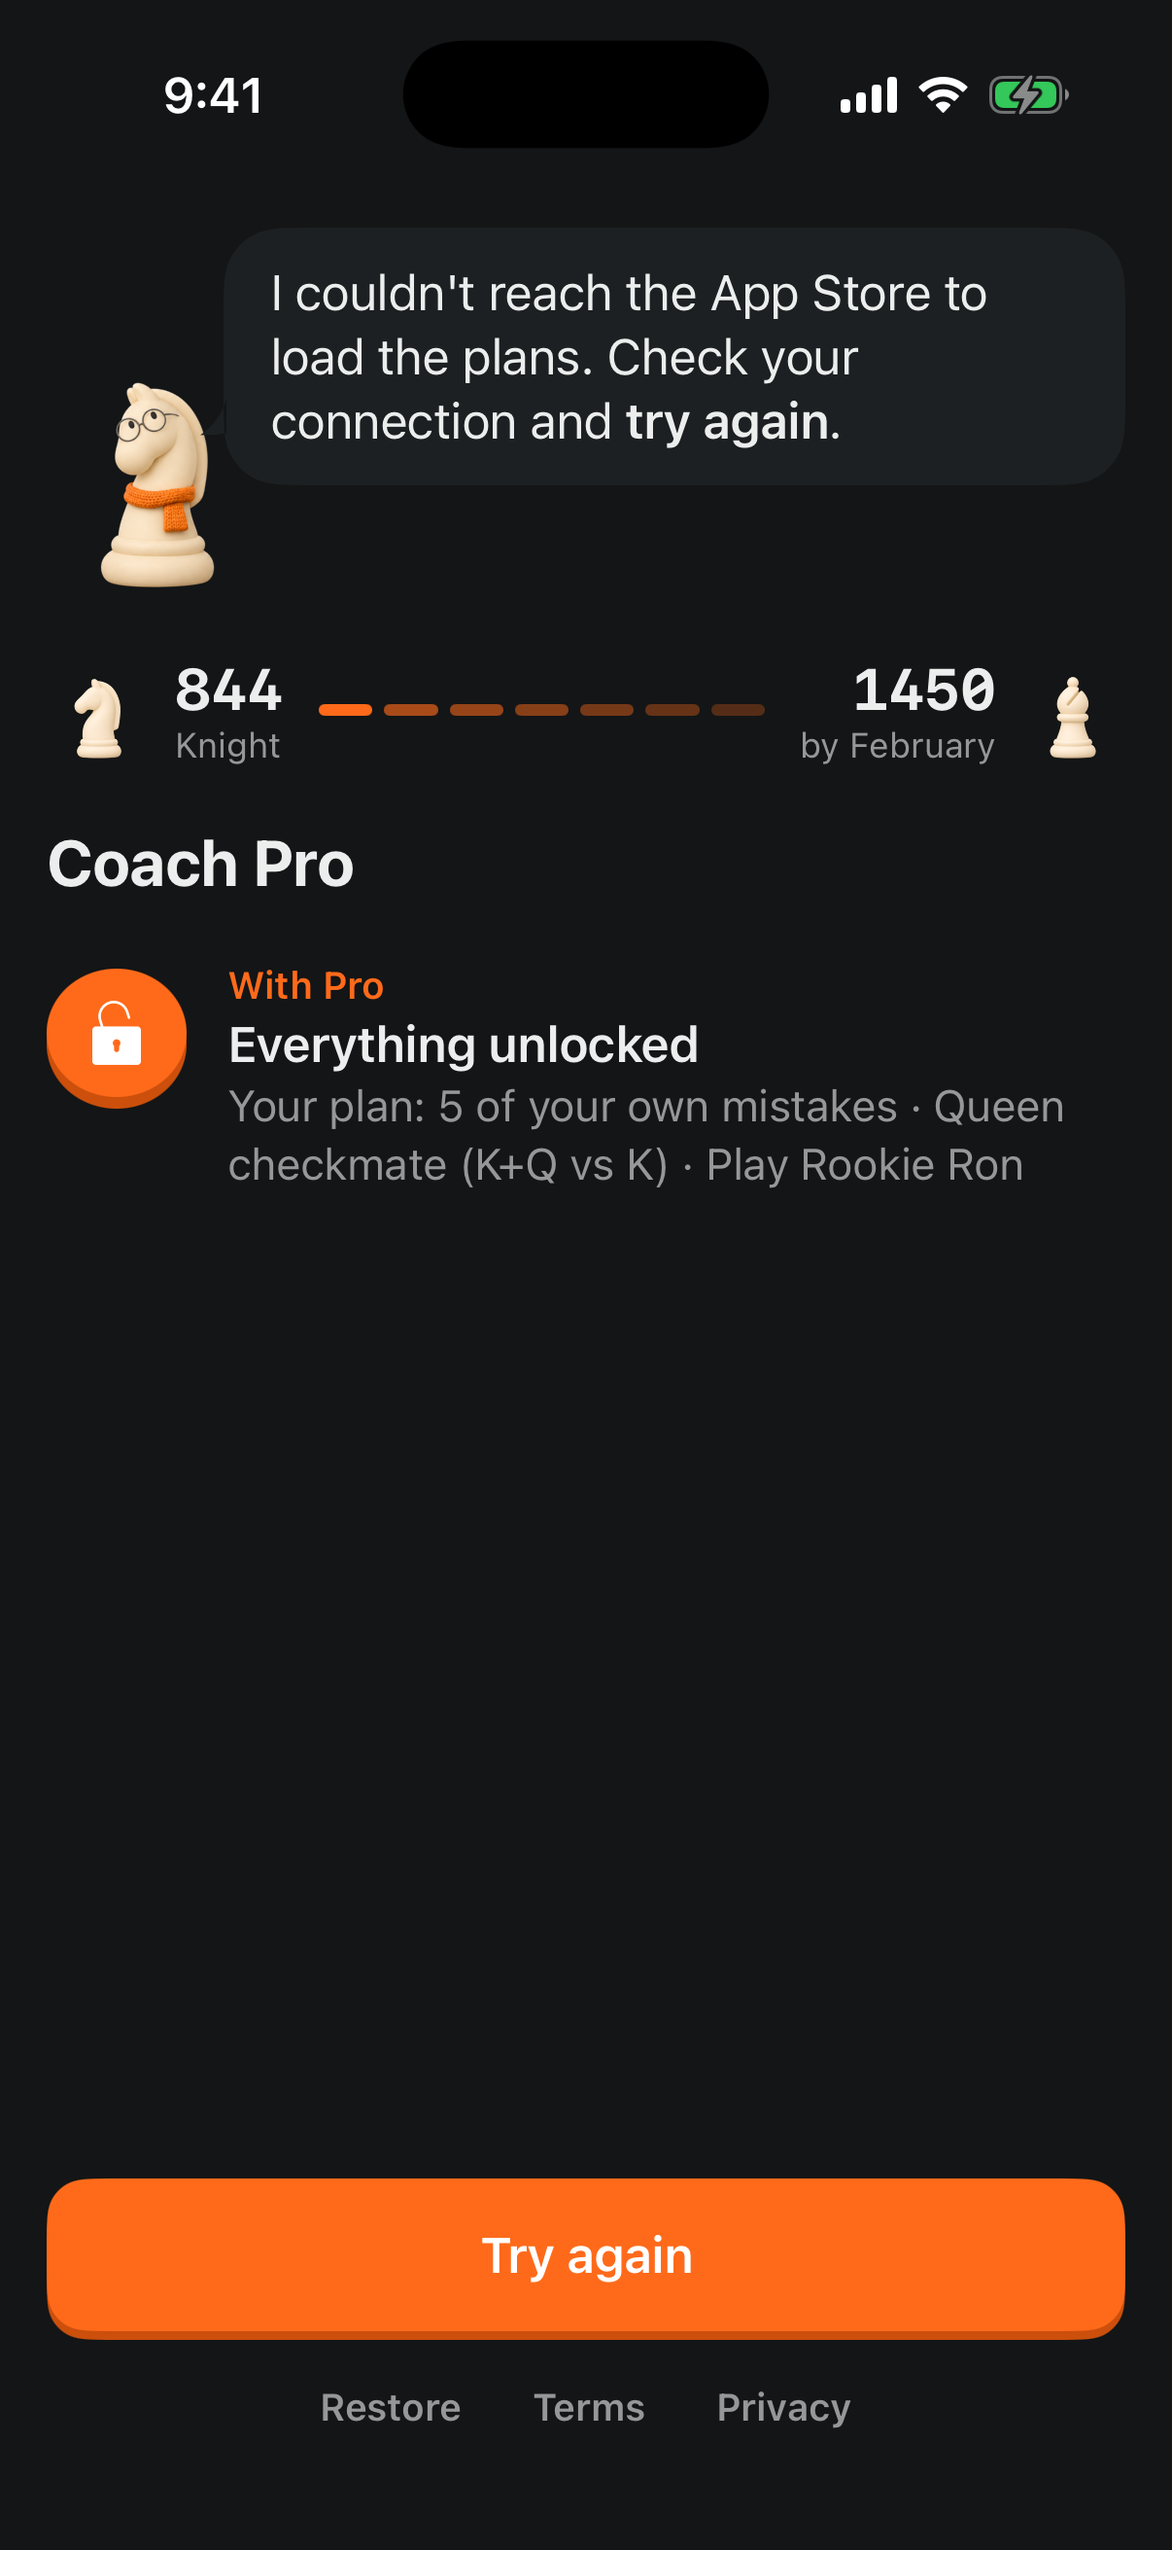
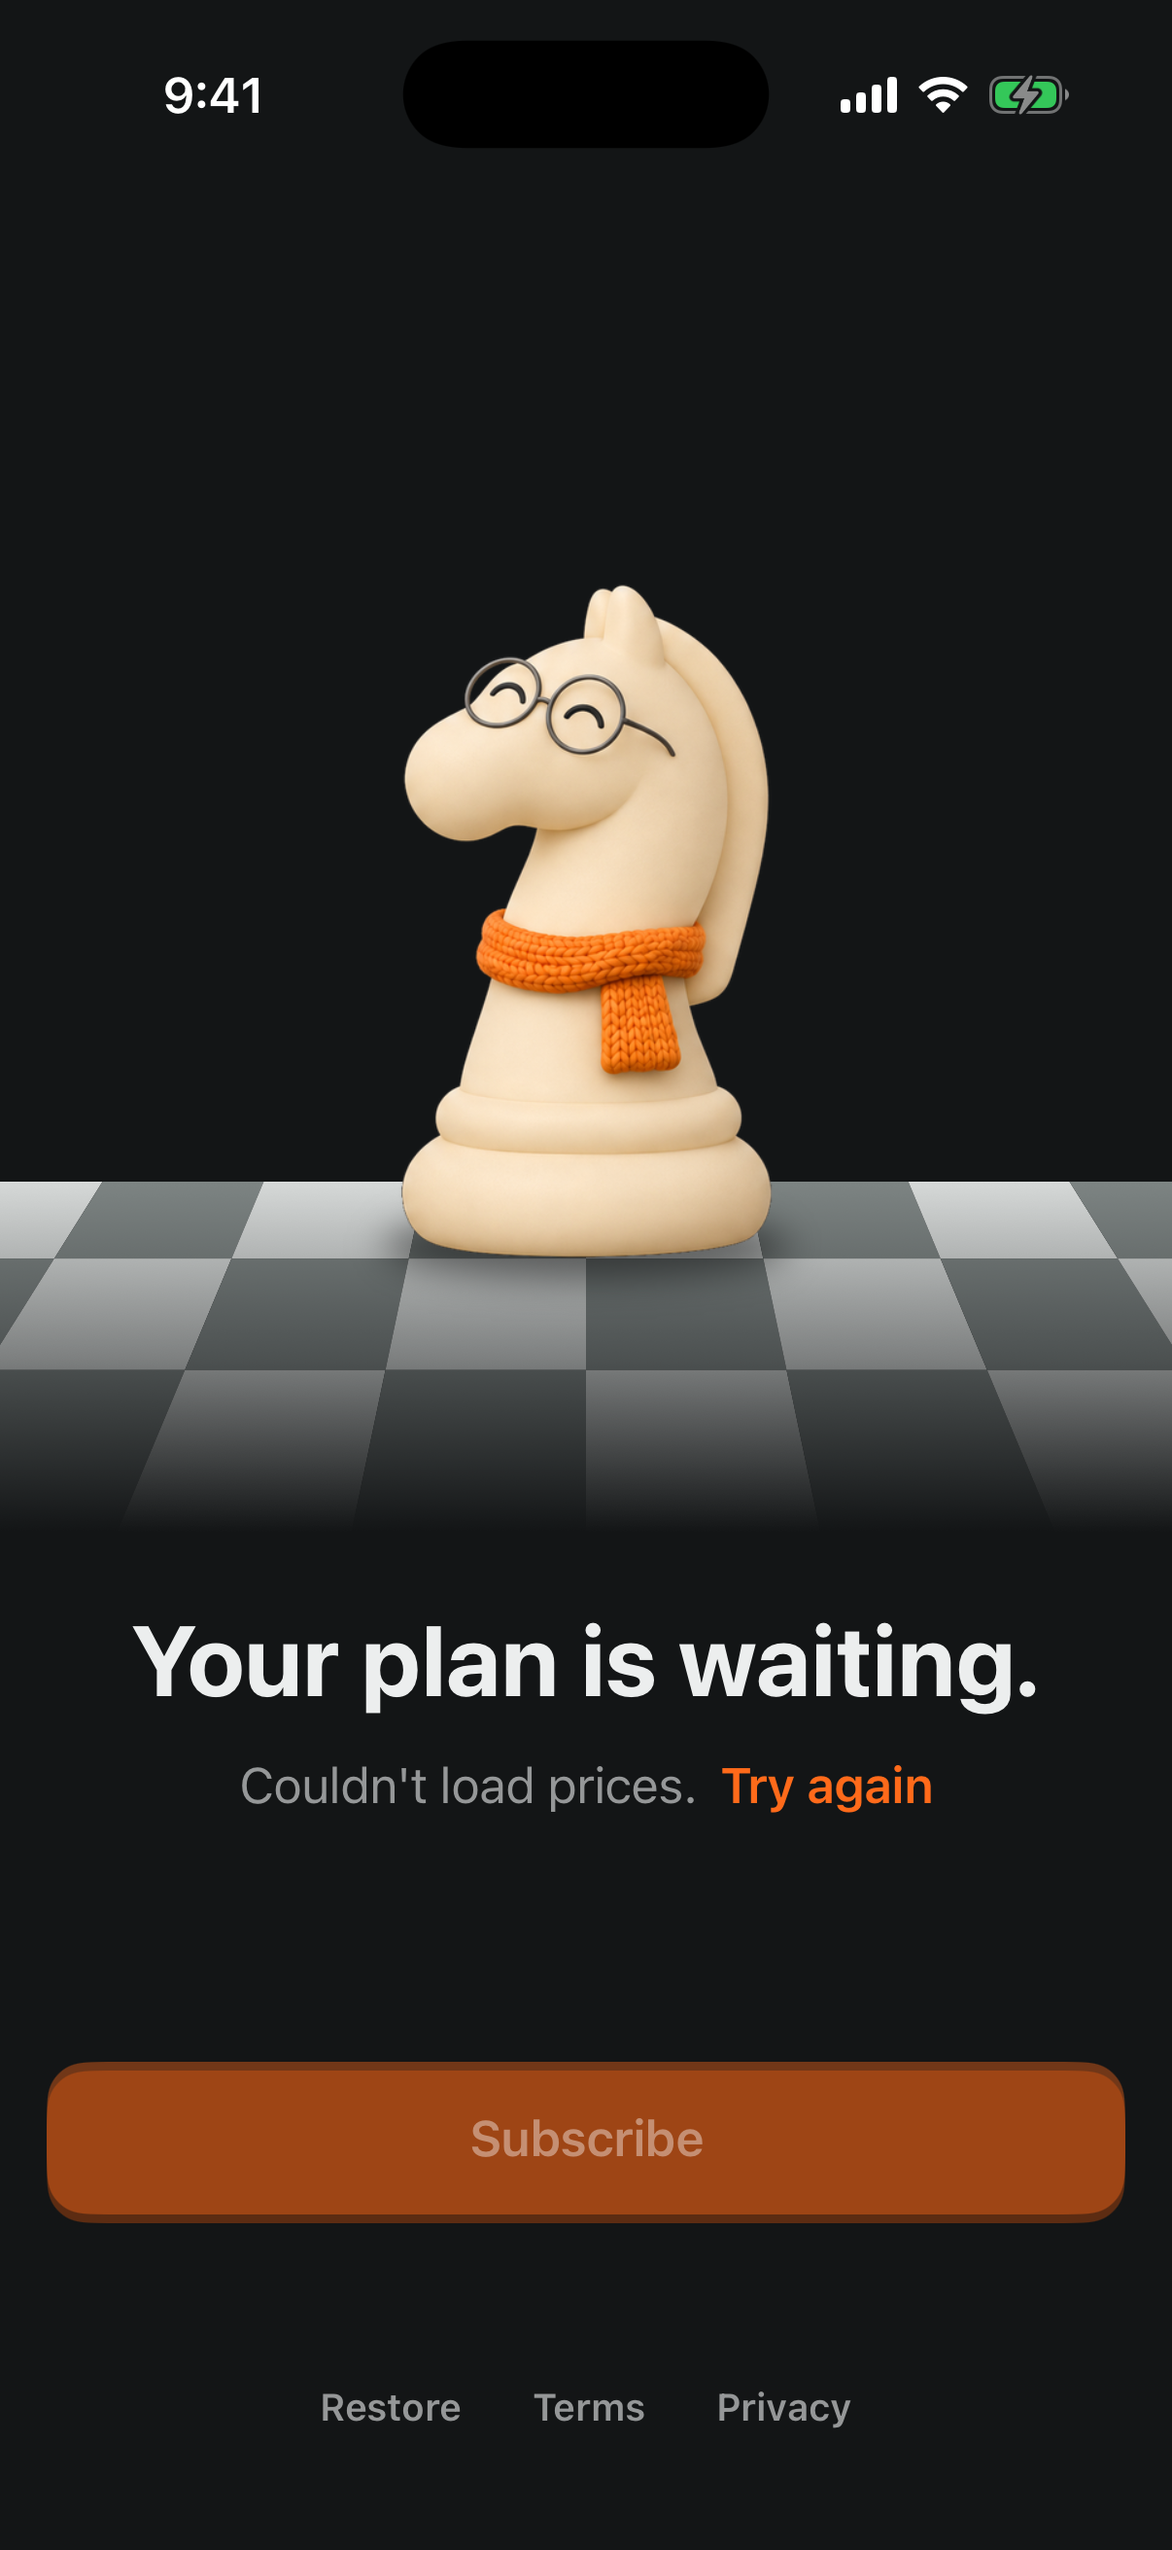
docs(paywall): minimal paywall ruling, trials in App Store Connect, screens

diff --git a/docs/design/decisions.md b/docs/design/decisions.md
@@ -216,15 +216,14 @@ Screens: `screens/merged-settings.png`, `-paywall.png`, `-licenses.png`, `-revie
 
 ## Hard paywall (owner, 2026-11-24: "ask for subscription at the end of onboarding")
 
-Screens: `screens/final-paywall-onboarding.png` (last onboarding step), `final-paywall-gate.png` (launch gate), `final-paywall-gate-monthly.png` (monthly selected: its 3-day trial), `final-paywall-error.png` (store unreachable), `final-paywall-inapp.png` (the in-app sheet, same design). References: Mobbin trial timelines (5 Minute Journal, Deepstash, Ladder, Nibble, Strava), Duolingo Super ("Start my free week"), Chessigma's narrator (`references/chessigma/notes.md`). One direction, owner said one-shot it.
+Screens: `screens/final-paywall-onboarding.png` (last onboarding step), `final-paywall-monthly.png` (the monthly switch), `final-paywall-gate.png` (launch gate), `final-paywall-error.png` (prices didn't load), `final-paywall-inapp.png` (the in-app sheet, same screen with a close button). References (owner-picked, Mobbin): Duolingo Super's trial paywall (https://mobbin.com/screens/97e9b0dc-f653-4422-96e8-53650ff9accd: one headline with the trial words in accent, one big mascot, one reminder line, one CTA "Try for $0.00") and Savee's "Your plan expired" (https://mobbin.com/screens/6ebca455-a73e-4271-8aad-8df17ab7223e: centred, two short lines, one button, one tiny price line).
 
-- **Pro gates: hard paywall ruling.** Build setting `HARD_PAYWALL` (Config/App.xcconfig → Info.plist `HardPaywall`, read once at launch, default 1). On: Coach Pro is required. Onboarding saves the profile, games, goal and plan, then ends on the paywall (no back, no close). A launch without the `pro` entitlement (expired, refunded, a reinstall that quit on the paywall) shows the same paywall before the tabs, never onboarding again; nothing shows until the first status check answers (`EntitlementStatus.unknown` → a blank frame, so a subscriber never sees the gate flash). Pro arriving (purchase, restore, renewal, Ask to Buy approval) swaps it for the tabs. Off (0): the free tier and the rulings above stay exactly as they are. The ProGate code stays in place either way (a lapsed subscriber mid-session, and HARD_PAYWALL=0 builds).
-- **The coach presents it**, as in every onboarding step: knight + bubble with the user's own result ("**1150 by February.** Your games keep giving away **free material**, so that's where day 1 starts."; gate: "Welcome back. Your plan for **1450 by February** is waiting."; in-app: the feature's pitch). Under it the user's road: tier piece and rating, a dashed accent road, goal rating and month, goal tier piece (onboarding and gate only; the sheet is shorter).
-- **Honest trial timeline in the week's track language**: chunky round tokens (accent = today) joined by a track, Icons8 iOS Filled unlock / reminder / calendar. Today "Everything unlocked" + day 1 of their plan; Day 5 "We remind you" (a local notification really is scheduled, permission asked right after the trial starts); Day 7 "$29.99 a year begins · Cancel before then and you pay nothing." Real dates. Built from the selected plan's introductory offer as the store reports it: the yearly's 7 days (reminder day 5, billed day 7), the monthly's 3 days (reminder day 2, billed day 3), no trial at all when the account isn't eligible (CTA "Subscribe", "Renews every month"). Nothing about price or trial length is hardcoded.
-- **Plans pinned with the CTA** (price, period and the monthly alternative always on screen next to the button; at accessibility text sizes they scroll with the story instead). The billed price is the loudest number in each row (App Review 3.1.2), the yearly's per-month figure secondary. Radio mark + accent ring for the choice. CTA "Start my free week" / "Try 3 days free" / "Subscribe"; under it the price sentence in full text colour ("7 days free, then $29.99 a year. Cancel anytime in Settings."); Restore · Terms · Privacy always visible.
-- **States**: loading (two quiet rows, disabled "Loading plans…"); store unreachable or no products: the coach says so in his bubble ("I couldn't reach the App Store to load the plans. Check your connection and **try again**."), the plan's "With Pro · Everything unlocked" row stays, the CTA becomes "Try again", Restore stays (never a dead end); purchases blocked by Screen Time: the coach says that and points at Restore. DEBUG only: `-demoPlans YES` sample plans for simctl screenshots, `-forcePro YES` skips the gate, `-hardPaywall YES|NO` overrides the build setting.
-- **In-app paywall redesigned onto the same screen** (`PaywallScreen`): the old "Coach Pro" title + orange-square bullet list is gone; the sheet is the coach + timeline + plans with a close button.
-- Rejected: hero art, "Most popular" / "Save 52 %" ribbons, strike-through prices, countdowns, social proof, a close button that appears after a delay, a "No thanks" link (a hard paywall has none; Restore is the only other way in).
+- **Pro gates: hard paywall ruling.** Build setting `HARD_PAYWALL` (Config/App.xcconfig → Info.plist `HardPaywall`, read once at launch, default 1). On: Coach Pro is required. Onboarding saves the profile, games, goal and plan, then ends on the paywall (no back, no close). A launch without the `pro` entitlement (expired, refunded, a reinstall that quit on the paywall) shows the same paywall before the tabs, never onboarding again; nothing shows until the first status check answers (`EntitlementStatus.unknown` → a blank frame, so a subscriber never sees the gate flash). Pro arriving (purchase, restore, renewal, Ask to Buy approval) swaps it for the tabs. Off (0): the free tier and the rulings above stay exactly as they are; the ProGate code stays in place either way.
+- **Minimal, at most 25 visible words besides Restore · Terms · Privacy** (a test counts them). Top ~45 %: the coach knight at 250 pt, the largest he appears anywhere, standing on the onboarding's stone `BoardEdge`. Headline in two lines, large, centred: "Your plan is ready." (gate: "Your plan is waiting."; in-app: "Get the whole coach.") / "Try 3 days free." in accent. One secondary line: "Then $29.99 a year." / "We'll remind you before it ends." (a sentence per line). CTA "Try for $0.00". Under it a plain text button "or $4.99 a month": it switches line 2 to "$4.99 a month.", the quiet line to "Billed monthly. / Cancel anytime." and the CTA to "Subscribe"; "or try 3 days free" switches back. Restore · Terms · Privacy at the bottom. No glass, no cards, no icons in circles, no lists.
+- **Everything from the store**: the price, the "$0.00" (zero in the product's currency), the trial's length and whether this account can still use it. Owner: only yearly has an intro offer, 3 days; monthly is billed at purchase. A yearly whose trial was used reads "$29.99 a year." / "Subscribe". The reminder is real: a local notification a day before billing, scheduled when the trial starts (permission asked then); a trial too short for one doesn't promise it.
+- **States**: loading ("Loading prices…", button disabled); prices didn't load: the quiet line becomes "Couldn't load prices." with an inline "Try again", the button disabled, Restore still there (never a dead end); purchases blocked by Screen Time: "Purchases are turned off on this iPhone." DEBUG only: `-demoPlans YES` sample plans for simctl screenshots, `-forcePro YES` skips the gate, `-hardPaywall YES|NO` overrides the build setting.
+- **In-app paywall**: the old "Coach Pro" title + orange-square bullet list is gone; every Pro prompt opens this screen with an X top-left.
+- Rejected on the way (owner): round 1, coach bubble + icon-circle Today / Day 5 / Day 7 timeline + radio plan cards ("full AI slop"); round 2, the user's own blunder on a board + locked "Why?" + week of locked day tokens + price block (six sections, ~70 words, "too much words"). Also rejected: hero art, ribbons, strike-through prices, countdowns, social proof, a delayed close button, a "No thanks" link.
 
 ## Training screens — final design (owner picks: Duolingo Chess + Chessigma, 2026-11-24)
 

diff --git a/docs/TESTFLIGHT.md b/docs/TESTFLIGHT.md
@@ -32,12 +32,13 @@ TestFlight and App Store builds use the **Production** CloudKit environment. Wit
 ## 5. Purchases
 
 - [ ] App Store Connect → the app → Subscriptions: **one subscription group** ("Coach Pro") holding both products, so a user has one Pro at a time and can switch plans:
-  - `uz.xq.chessc.pro.yearly`, $29.99 a year, with an **introductory offer: Free trial, 1 week**, new subscribers, every territory.
-  - `uz.xq.chessc.pro.monthly`, $4.99 a month, with an **introductory offer: Free trial, 3 days**, new subscribers, every territory.
-  - Same as `Config/ChessCoach.storekit`. The app never hardcodes a price or a trial: the paywall reads each product's price and introductory offer (and whether this Apple Account is still eligible) from the store, and builds the trial timeline from them (7 days: reminder on day 5, billed on day 7; 3 days: reminder on day 2, billed on day 3). An account that already used a trial in the group sees "Subscribe" and no trial.
+  - `uz.xq.chessc.pro.yearly`, $29.99 a year, with an **introductory offer: Free trial, 3 days**, new subscribers, every territory. This is the only intro offer.
+  - `uz.xq.chessc.pro.monthly`, $4.99 a month, **no introductory offer** (billed at purchase).
+  - Same as `Config/ChessCoach.storekit`. The app never hardcodes a price or a trial: the paywall reads each product's price, its introductory offer and whether this Apple Account is still eligible from the store ("Try 3 days free.", "Then $29.99 a year.", "Try for $0.00"). A plan without a trial (monthly, or yearly for an account that already used its trial) shows its price and "Subscribe".
   - Add the subscription screenshot (the paywall, `docs/design/screens/final-paywall-onboarding.png`) and review notes. Paid Apps agreement and banking must be active, or sandbox purchases fail.
-- [ ] **Hard paywall** (`HARD_PAYWALL = 1` in `Config/App.xcconfig`, the default): onboarding ends on the paywall and the app needs Coach Pro. Review notes for App Review: "The app analyses the user's own games and builds a training plan during onboarding before asking for a subscription. Both plans start with a free trial; Restore, Terms and Privacy are on the paywall." Set `HARD_PAYWALL = 0` (e.g. in `Config/Secrets.xcconfig`) for a build with the free tier and Pro gates instead.
-- [ ] The paywall promises a reminder before the trial ends: it schedules a local notification right after a trial starts and asks for notification permission at that moment. Check it in TestFlight (Settings → Notifications → Chess Coach) and that it fires on day 5 of the yearly trial.
+- [ ] **Hard paywall** (`HARD_PAYWALL = 1` in `Config/App.xcconfig`, the default): onboarding ends on the paywall and the app needs Coach Pro. Review notes for App Review: "The app analyses the user's own games and builds a training plan during onboarding before asking for a subscription. The yearly plan starts with a 3-day free trial, the monthly plan is billed at purchase; Restore, Terms and Privacy are on the paywall." Set `HARD_PAYWALL = 0` (e.g. in `Config/Secrets.xcconfig`) for a build with the free tier and Pro gates instead.
+- [ ] App Review 3.1.2 asks for the subscription's name on the paywall; the minimal paywall shows the price, period and trial but not the words "Coach Pro" (the App Store's purchase sheet does). If review flags it, add "Coach Pro" to the headline (it stays under the 25-word budget only if a word goes elsewhere).
+- [ ] The paywall promises a reminder before the trial ends: it schedules a local notification right after a trial starts and asks for notification permission at that moment. Check it in TestFlight (Settings → Notifications → Chess Coach) and that it fires on day 2 of the yearly trial (the day before billing).
 - [ ] Choose the back end for this build:
   - **RevenueCat**: put the public Apple SDK key in `Config/Secrets.xcconfig` (gitignored) as `REVENUECAT_API_KEY = appl_…`. Set up the products, the `pro` entitlement and an offering in the RevenueCat dashboard.
   - **StoreKit only**: leave the key out. Anything that isn't an `appl_…` key (empty, a placeholder, a secret key) falls back to StoreKit 2, and the archive still works.

diff --git a/CODEMAP.md b/CODEMAP.md
@@ -133,11 +133,11 @@ vendored Stockfish 18 build. Design rules: `docs/design/decisions.md`; grading n
 | Feature | Files |
 |---|---|
 | Settings (pushed from Profile's gear): play defaults, feedback, Pro, about, re-import (Pro), reset | `App/Features/Settings/SettingsView.swift`, `SettingsRows.swift`, `Preferences.swift` (`Pref`, `AppInfo`) |
-| Paywall screen (coach + goal road + trial timeline + plans pinned with the CTA; `PaywallScreen`, in-app sheet `PaywallView`, launch gate `PaywallGate`) | `App/Features/Paywall/PaywallView.swift` |
-| Hard paywall: `HARD_PAYWALL` build setting (`HardPaywall.isOn`, env `\.hardPaywall`), launch routing (`LaunchRoute`: onboarding / checking / paywall / tabs), the coach's personalised line (`PaywallStory`), trial timeline from the store's intro offer (`TrialTimeline`), day-before reminder notification (`TrialReminder`) | `App/Features/Paywall/HardPaywall.swift`, routing in `App/AppShell/RootTabView.swift`, onboarding's `.paywall` step in `OnboardingFlow.swift` |
+| Paywall screen (coach on the board edge, two-line headline, one quiet line, CTA, text switch to the other plan; `PaywallScreen`, in-app sheet `PaywallView`, launch gate `PaywallGate`) | `App/Features/Paywall/PaywallView.swift` |
+| Hard paywall: `HARD_PAYWALL` build setting (`HardPaywall.isOn`, env `\.hardPaywall`), launch routing (`LaunchRoute`: onboarding / checking / paywall / tabs), the paywall's words from the store's product and intro offer, 25-word budget (`PaywallCopy`), day-before reminder notification (`TrialReminder`) | `App/Features/Paywall/HardPaywall.swift`, routing in `App/AppShell/RootTabView.swift`, onboarding's `.paywall` step in `OnboardingFlow.swift` |
 | `ProFeature`, `ProGate`, `UpgradeButton`, puzzle / lesson / habit allowances (`WeaknessAllowance`), the free tier when `HARD_PAYWALL=0` | `App/Features/Paywall/ProGate.swift` |
 | Licenses (GPLv3, Stockfish, chesskit, RevenueCat, Lichess CC0, Icons8) | `App/Features/Licenses/LicensesView.swift`, `App/Resources/Licenses/*.txt` |
-| Build config (RevenueCat key from gitignored `Config/Secrets.xcconfig`, `HARD_PAYWALL`), StoreKit test file (yearly 7-day and monthly 3-day trials; also a test-bundle resource), entitlements | `Config/App.xcconfig`, `Config/ChessCoach.storekit`, `App/ChessCoach.entitlements`, `App/Info.plist` |
+| Build config (RevenueCat key from gitignored `Config/Secrets.xcconfig`, `HARD_PAYWALL`), StoreKit test file (yearly 3-day free trial, monthly none; also a test-bundle resource), entitlements | `Config/App.xcconfig`, `Config/ChessCoach.storekit`, `App/ChessCoach.entitlements`, `App/Info.plist` |
 | Rating estimate, tiers (pieces), milestones, weaknesses, motif wording | `ChessCore/Profile/ProfileStats.swift` |
 
 ## Grading and explanations (ChessCore/Analysis)
@@ -169,4 +169,4 @@ vendored Stockfish 18 build. Design rules: `docs/design/decisions.md`; grading n
 |---|---|
 | ChessCore (Swift Testing, `swift test`) | `Packages/ChessCore/Tests/ChessCoreTests/*` (fake engine: `Support/FakeEngine.swift`) |
 | StockfishKit | `Packages/StockfishKit/Tests/StockfishKitTests/*` |
-| App (simulator) | `AppTests/*` — Play flow, Review, Profile, Freeplay + Guess (`FreeplayTests.swift`: saving, freeplay exclusion), settings / paywall, hard paywall gate matrix + trial timeline + StoreKitTest plans (`HardPaywallTests.swift`), training store, onboarding, launch, merge invariants (`MergeIntegrationTests.swift`), decode cache / sync duplicates / store files / privacy manifest (`SyncAndStoreTests.swift`), scaffold geometry, persistence (fake engine: `AppTests/Support/FakeEngine.swift`) |
+| App (simulator) | `AppTests/*`: Play flow, Review, Profile, Freeplay + Guess (`FreeplayTests.swift`: saving, freeplay exclusion), settings / paywall, hard paywall gate matrix + paywall words + StoreKitTest plans (`HardPaywallTests.swift`), training store, onboarding, launch, merge invariants (`MergeIntegrationTests.swift`), decode cache / sync duplicates / store files / privacy manifest (`SyncAndStoreTests.swift`), scaffold geometry, persistence (fake engine: `AppTests/Support/FakeEngine.swift`) |
